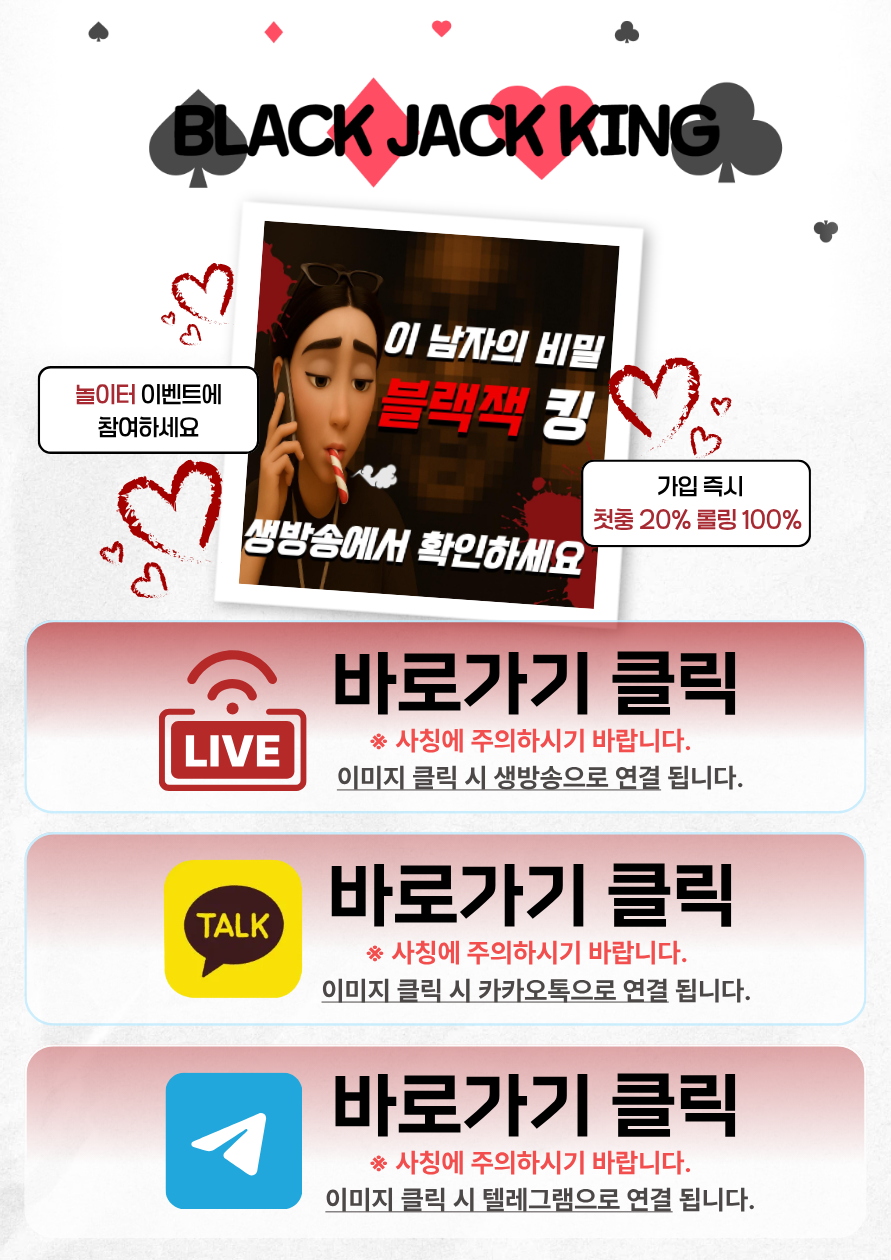
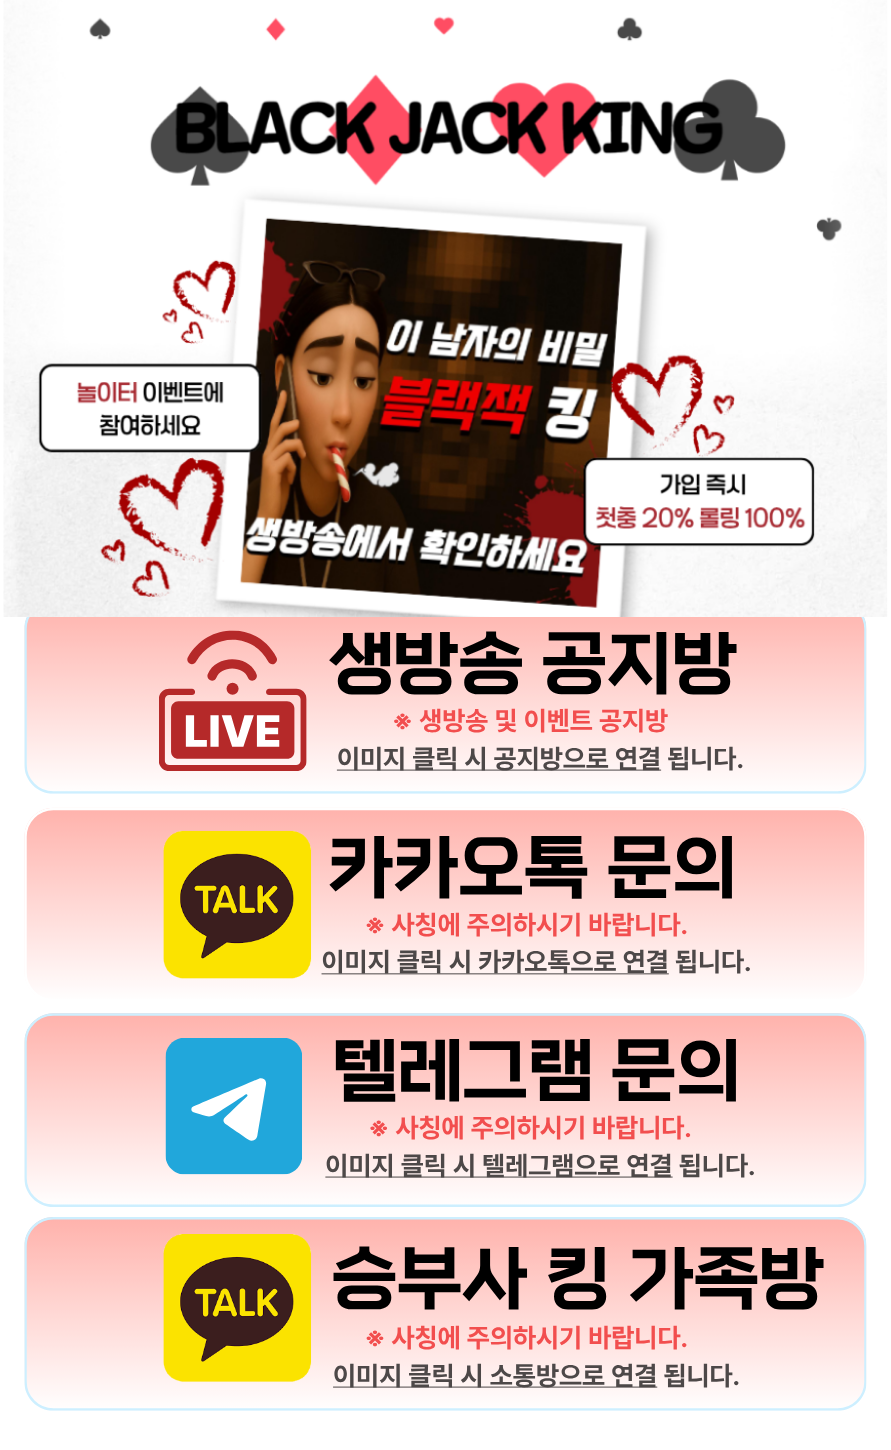
Add files via upload

diff --git a/index.html b/index.html
@@ -1,77 +1,138 @@
-<!DOCTYPE html>
+<!doctype html>
 <html lang="ko">
 <head>
-  <meta charset="UTF-8" />
-  <meta name="viewport" content="width=device-width, initial-scale=1.0" />
-  <title>블랙잭킹</title>
+  <meta charset="utf-8" />
+  <meta name="viewport" content="width=device-width, initial-scale=1" />
+
+  <title>블랙잭 킹</title>
 
   <style>
+    * {
+      box-sizing: border-box;
+    }
+
+    html,
     body {
       margin: 0;
+      padding: 0;
       background: #000;
+    }
+
+    body {
       display: flex;
       justify-content: center;
     }
 
+    /* 전체 랜딩페이지 */
     .wrapper {
       position: relative;
-      width: 100%; /* ✅ 모바일 기본: 화면 꽉 */
-      margin: auto;
+      width: 100%;
+      max-width: 891px;
+      margin: 0 auto;
     }
 
-    /* ✅ PC: 화면 60% */
+    /* PC 화면 */
     @media (min-width: 900px) {
       .wrapper {
-        width: 60%;
+        width: 45%;
+        max-width: 720px;
       }
     }
 
-    /* ✅ PNG 원본 이미지 */
+    /* 랜딩 이미지 */
     .wrapper img {
       width: 100%;
+      height: auto;
       display: block;
     }
 
     /* 클릭 영역 공통 */
     .click-zone {
       position: absolute;
-      left: 5%;
-      width: 90%;
-      height: 15%;
+      left: 2.8%;
+      width: 94.4%;
+      display: block;
       cursor: pointer;
-      }
+      z-index: 10;
 
-    /* ✅ 각각 위치 조정 */
-    .zone-live { top: 49.4%; }
-    .zone-talk { top: 66.3%; }
-    .zone-tele { top: 83.2%; }
+      /* 클릭 영역 확인용 */
+      background: rgba(255, 0, 0, 0.18);
+      border: 3px solid red;
+    }
 
-    /* 클릭 시 살짝 효과 */
-    .click-zone:hover { opacity: 0.98; }
+    /* 1. 생방송 공지방 */
+    .zone1 {
+      top: 42.3%;
+      height: 12.5%;
+    }
 
+    /* 2. 카카오톡 문의 */
+    .zone2 {
+      top: 55.9%;
+      height: 12.5%;
+    }
+
+    /* 3. 텔레그램 문의 */
+    .zone3 {
+      top: 69.9%;
+      height: 12.5%;
+    }
+
+    /* 4. 승부사 킹 가족방 */
+    .zone4 {
+      top: 84.0%;
+      height: 12.5%;
+    }
   </style>
 </head>
 
 <body>
+
   <div class="wrapper">
 
-    <img src="landing.png" alt="블랙잭킹 랜딩">
+    <!-- 랜딩 이미지 -->
+    <img
+      src="./landing.png"
+      alt="블랙잭 킹 랜딩페이지"
+    />
 
-    <a href="https://open.kakao.com/o/sNrlcFGi"
-       target="_blank"
-       rel="noopener noreferrer"
-       class="click-zone zone-live"></a>
+    <!-- 1. 생방송 공지방 -->
+    <a
+      class="click-zone zone1"
+      href="https://open.kakao.com/o/sNrlcFGi"
+      target="_blank"
+      rel="noopener noreferrer"
+      aria-label="생방송 공지방">
+    </a>
 
-    <a href="https://open.kakao.com/o/s266v8Ag"
-       target="_blank"
-       rel="noopener noreferrer"
-       class="click-zone zone-talk"></a>
+    <!-- 2. 카카오톡 문의 -->
+    <a
+      class="click-zone zone2"
+      href="https://open.kakao.com/o/s266v8Ag"
+      target="_blank"
+      rel="noopener noreferrer"
+      aria-label="카카오톡 문의">
+    </a>
 
-    <a href="https://telegram.me/storyinquiry"
-       target="_blank"
-       rel="noopener noreferrer"
-       class="click-zone zone-tele"></a>
+    <!-- 3. 텔레그램 문의 -->
+    <a
+      class="click-zone zone3"
+      href="https://telegram.me/storyinquiry"
+      target="_blank"
+      rel="noopener noreferrer"
+      aria-label="텔레그램 문의">
+    </a>
+
+    <!-- 4. 승부사 킹 가족방 -->
+    <a
+      class="click-zone zone4"
+      href="https://open.kakao.com/o/gJqGHqLi"
+      target="_blank"
+      rel="noopener noreferrer"
+      aria-label="승부사 킹 가족방">
+    </a>
 
   </div>
+
 </body>
 </html>
